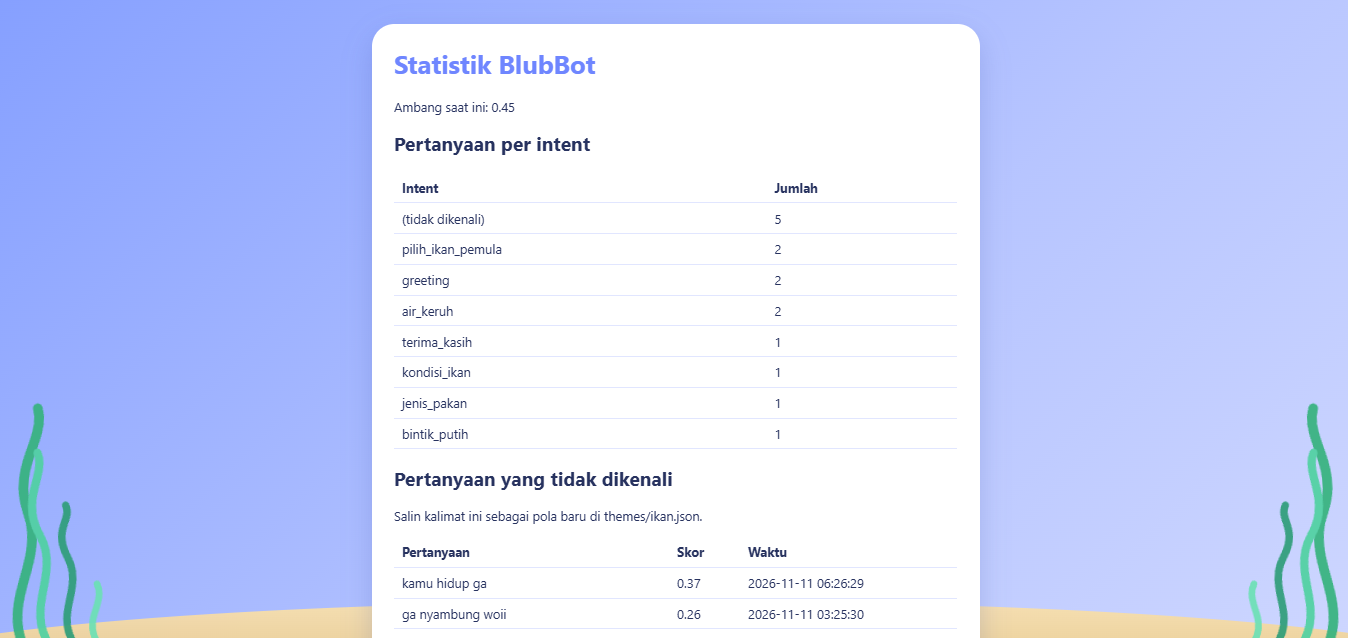
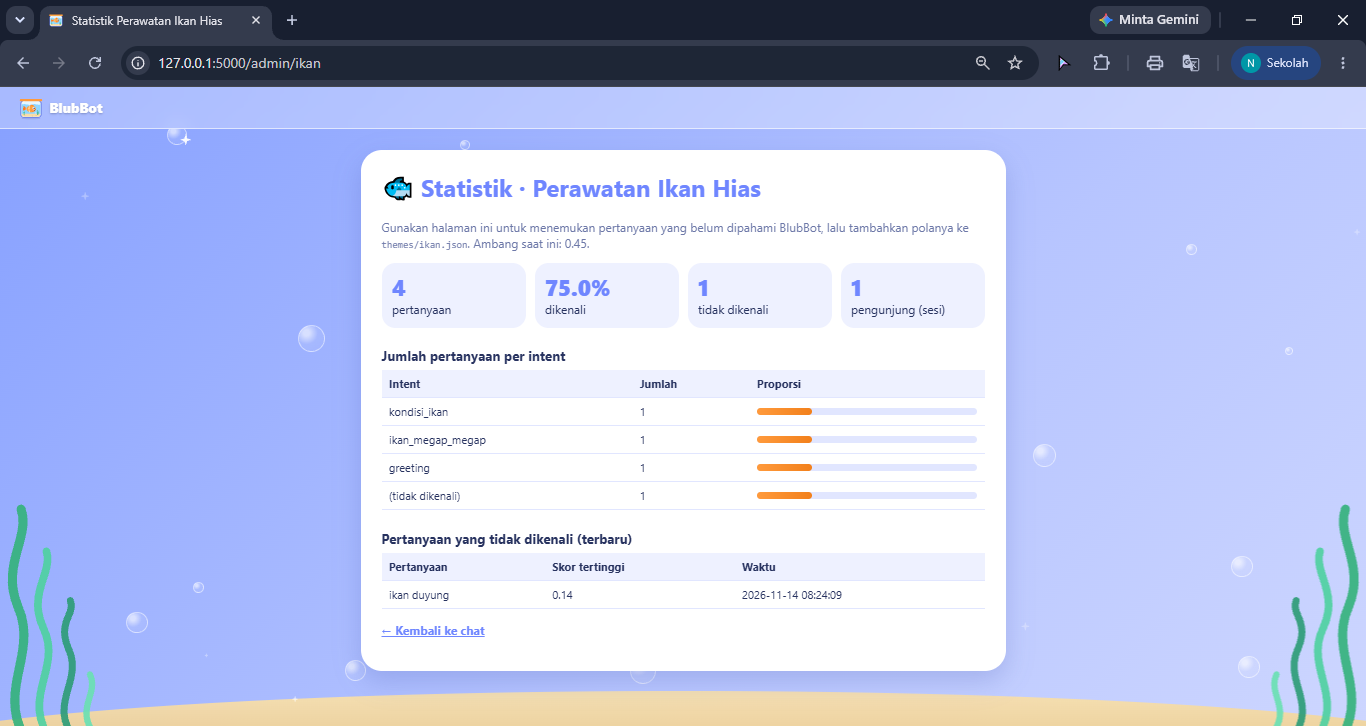
update js

diff --git a/static/js/chat.js b/static/js/chat.js
@@ -9,6 +9,7 @@ const input = document.getElementById("chat-input");
 const btnClear = document.getElementById("btn-clear");
 const btnStart = document.getElementById("start-btn");
 const learnMode = document.getElementById("learn-mode");
+const placeholderAwal = input.placeholder;
 let sedangKirim = false;
 
 /** Tambahkan satu gelembung pesan ke layar. */
@@ -49,15 +50,6 @@ function addMessage(sender, text, meta) {
   return bubble;
 }
 
-/** Tiga titik "sedang mengetik". */
-function showTyping() {
-  const bubble = addMessage("bot", "");
-  const row = bubble.parentElement;
-  row.classList.add("typing");
-  for (let i = 0; i < 3; i++) bubble.appendChild(document.createElement("span"));
-  return row;
-}
-
 /** Mode belajar: tampilkan 3 kandidat intent teratas di bawah jawaban. */
 async function showCandidates(bubble, text) {
   const res = await fetch("/api/explain", {
@@ -83,7 +75,8 @@ async function sendMessage(text) {
   if (sedangKirim) return;
   sedangKirim = true;
   addMessage("user", text);
-  const typing = showTyping();
+  // penanda menunggu yang ringan: cukup ganti teks placeholder (tanpa animasi)
+  input.placeholder = "BlubBot lagi mikir...";
 
   try {
     const res = await fetch("/api/chat", {
@@ -92,7 +85,6 @@ async function sendMessage(text) {
       body: JSON.stringify({ message: text, theme: THEME.id }),
     });
     const data = await res.json();
-    typing.remove();
 
     if (!res.ok) {
       addMessage("bot", `⚠ ${data.error}`);
@@ -105,23 +97,21 @@ async function sendMessage(text) {
     const bubble = addMessage("bot", data.reply, meta);
     if (learnMode.checked) await showCandidates(bubble, text);
   } catch (err) {
-    typing.remove();
     addMessage("bot", "⚠ Gagal terhubung ke server.");
     console.error(err);
   } finally {
     sedangKirim = false;
+    input.placeholder = placeholderAwal;
     input.focus();
   }
 }
 
-/** Muat riwayat percakapan saat halaman dibuka. */
+/** Tampilkan riwayat percakapan. Datanya (HISTORY) sudah dikirim server bersama halaman,
+ *  jadi langsung muncul tanpa menunggu request tambahan. */
 async function loadHistory() {
   const res = await fetch(`/api/history/${THEME.id}`);
   const rows = await res.json();
-  if (rows.length === 0) {
-    addMessage("bot", THEME.greeting);
-    return;
-  }
+  if (rows.length === 0) { addMessage("bot", THEME.greeting); return; }
   rows.forEach((r) => addMessage(r.sender, r.text));
 }
 

diff --git a/static/js/dekorasi.js b/static/js/dekorasi.js
@@ -1,4 +1,4 @@
-// Hiasan akuarium: bintang berkilau dan gelembung diam (dipakai semua halaman)
+// Hiasan akuarium: bintang dan gelembung diam (dipakai semua halaman)
 (function buatDekorasi() {
   const acak = (a, b) => a + Math.random() * (b - a);
   const bintang = document.querySelector(".sparkles");
@@ -6,8 +6,9 @@
     const s = document.createElement("i");
     const ukuran = acak(8, 22);
     s.className = "sparkle";
+    // animation:none -> bintang diam, tidak berkedip
     s.style.cssText = `left:${acak(0, 100)}%;top:${acak(0, 100)}%;` +
-      `width:${ukuran}px;height:${ukuran}px;animation-delay:${acak(0, 3)}s`;
+      `width:${ukuran}px;height:${ukuran}px;animation:none`;
     bintang.appendChild(s);
   }
   const gelembung = document.querySelector(".bubbles");

diff --git a/app.py b/app.py
@@ -61,7 +61,8 @@ def create_app(config: dict | None = None) -> Flask:
     @app.route("/chat/<theme_id>")
     def chat_page(theme_id):
         theme = get_theme_or_404(theme_id)
-        return render_template("chat.html", theme=theme)
+        return render_template("chat.html", theme=theme,
+                            history=history.get(get_session_id(), theme_id))
 
     @app.route("/admin/<theme_id>")
     def admin_page(theme_id):
